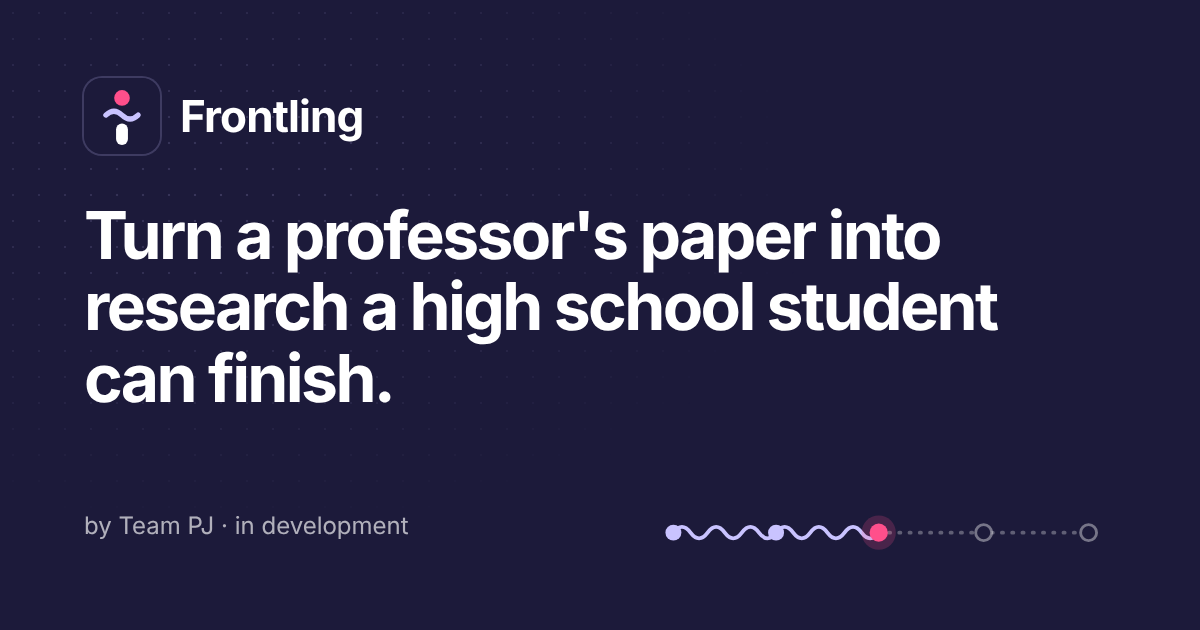
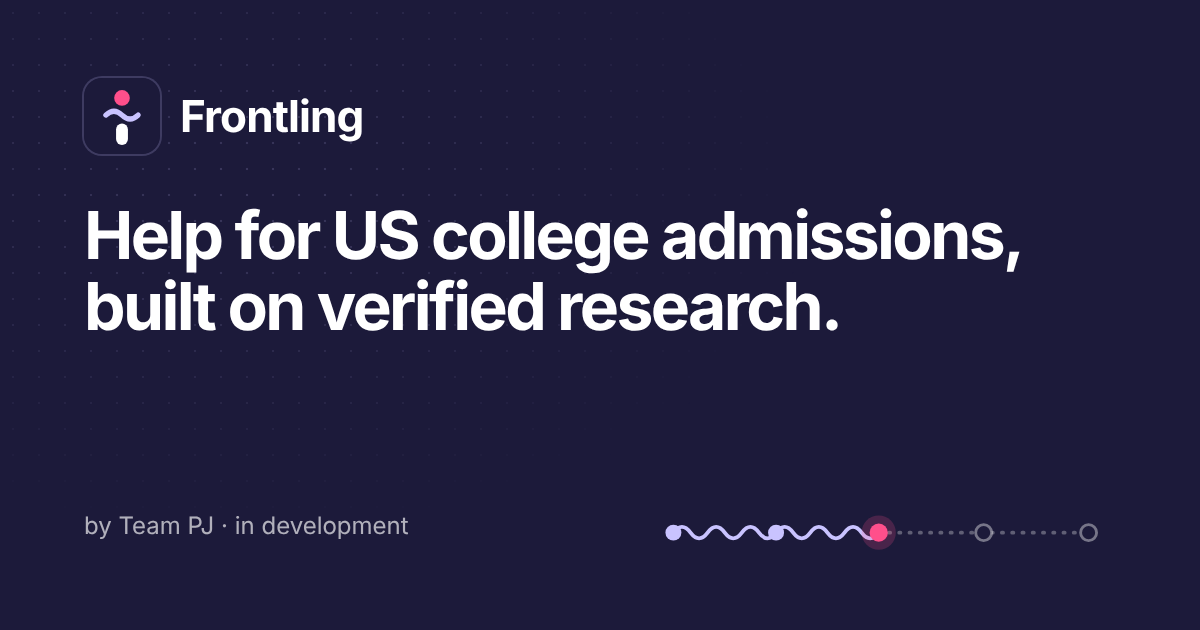
Frontling: position as US college admissions help built on verified research; add Services menu
- Frontling page and home card: student-facing copy for US college admissions,
  professor roles removed; steps are paper, plans, prerequisite check, hint coaching
- Why section: Pioneer Research Institute tuition (official admission page) and
  Bastani et al. PNAS 2025
- Nav: Services dropdown with Interlock and Frontling (hover/focus, click for touch;
  grouped list in the mobile menu)
- Share image text updated; CSS v28 and JS v5 so caches refresh

Claude-Session: https://claude.ai/code/session_01CkiX4FzoXT7LtkamnLJZzg

Changed region(s): [[0.0617, 0.3317, 0.8633, 0.6635]]

diff --git a/frontling/index.html b/frontling/index.html
@@ -2,9 +2,9 @@
 layout: default
 nav: frontling
 title: Frontling
-description: "Frontling turns a professor's recent paper into a research project a high school student can finish, and coaches with hints instead of answers. In development at Team PJ."
+description: "Frontling helps students prepare for US college admissions with research built on published papers: a project they can finish, coached with hints instead of answers. In development at Team PJ."
 og_image: /assets/frontling/og.png
-og_alt: "Frontling by Team PJ — research a high school student can finish."
+og_alt: "Frontling by Team PJ — help for US college admissions, built on verified research."
 ---
     <!-- ============ HERO ============ -->
     <section class="hero fl">
@@ -14,12 +14,12 @@ og_alt: "Frontling by Team PJ — research a high school student can finish."
           <p class="pill reveal"><i class="dot dot--live"></i><span class="en">In development · not available yet</span><span class="ko">개발 중 · 아직 이용할 수 없음</span></p>
           <p class="fl-brand reveal" style="margin-top:28px">{% include frontling-logo.html %}Frontling <small>by Team PJ</small></p>
           <h1 class="hero__title reveal">
-            <span class="en">Turn a professor's paper into research a high school student can finish.</span>
-            <span class="ko">교수의 논문을, 고등학생이 끝낼 수 있는 연구로.</span>
+            <span class="en">Help for US college admissions, built on verified research.</span>
+            <span class="ko">검증된 자료를 바탕으로, 미국 대학 입시를 도와줍니다.</span>
           </h1>
           <p class="hero__lead reveal">
-            <span class="en">Frontling reads a recent paper and drafts two or three research projects sized to the student's grade, weeks and laptop. The professor approves one. Then the student is coached with hints, never with the answer.</span>
-            <span class="ko">Frontling은 최근 논문을 읽고 학생의 학년 · 기간 · 노트북 환경에 맞는 연구 과제를 2~3안으로 설계합니다. 교수가 그중 하나를 승인하면, 학생은 정답이 아닌 힌트로 코칭을 받습니다.</span>
+            <span class="en">Frontling starts from a published research paper and turns it into a project a high school student can actually finish, sized to their grade, weeks and laptop. Coaching comes as hints, never as the answer, so the research in their application is their own.</span>
+            <span class="ko">Frontling은 실제 발표된 연구 논문에서 출발해, 고등학생이 끝까지 해낼 수 있는 연구 과제를 학년 · 기간 · 노트북 환경에 맞춰 설계합니다. 코칭은 정답이 아닌 힌트로만 하기 때문에, 지원서에 담기는 연구는 온전히 학생 자신의 것입니다.</span>
           </p>
           <div class="fl-actions reveal">
             <a class="btn btn--fl" href="#pilot"><span class="en">Join the pilot</span><span class="ko">파일럿 문의</span></a>
@@ -29,39 +29,40 @@ og_alt: "Frontling by Team PJ — research a high school student can finish."
             <a href="#why"><span class="en">Why</span><span class="ko">왜</span></a>
             <a href="#how"><span class="en">How it works</span><span class="ko">작동 방식</span></a>
             <a href="#hints"><span class="en">Hints</span><span class="ko">힌트</span></a>
-            <a href="#who"><span class="en">Who it's for</span><span class="ko">대상</span></a>
+            <a href="#get"><span class="en">What you get</span><span class="ko">얻는 것</span></a>
             <a href="#status"><span class="en">Status</span><span class="ko">현황</span></a>
           </nav>
         </div>
         <figure class="fl-panel reveal" aria-label="Illustration of a Frontling project blueprint">
           <div class="fl-bp__head">
             <span class="fl-panel__k"><span class="en">Project blueprint · 2 of 3</span><span class="ko">과제 설계서 · 2 / 3안</span></span>
-            <span class="fl-tag"><span class="en">Awaiting professor review</span><span class="ko">교수 검토 대기</span></span>
+            <span class="fl-tag"><span class="en">Grade 11 · 10 weeks · laptop</span><span class="ko">11학년 · 10주 · 노트북</span></span>
           </div>
           <dl class="fl-bp__rows">
+            <div><dt><span class="en">Source paper</span><span class="ko">원 논문</span></dt><dd><span class="fl-chip is-on"><span class="en">Published · DOI</span><span class="ko">발표 논문 · DOI</span></span><i style="--w:58%"></i></dd></div>
             <div><dt><span class="en">Research question</span><span class="ko">연구 질문</span></dt><dd><i style="--w:94%"></i><i style="--w:62%"></i></dd></div>
             <div><dt><span class="en">From the paper</span><span class="ko">원 논문과의 관계</span></dt><dd><span class="fl-chip"><span class="en">Reproduce</span><span class="ko">재현</span></span><span class="fl-chip is-on"><span class="en">Scale down</span><span class="ko">축소</span></span><span class="fl-chip"><span class="en">Extend</span><span class="ko">확장</span></span></dd></div>
             <div><dt><span class="en">Data &amp; tools</span><span class="ko">데이터 · 도구</span></dt><dd><i style="--w:78%"></i></dd></div>
-            <div><dt><span class="en">Prerequisites</span><span class="ko">선수 지식</span></dt><dd><i style="--w:28%"></i><i style="--w:22%"></i><i style="--w:34%"></i></dd></div>
           </dl>
           <div class="fl-bp__trail">{% include frontling-trail.html id="hero" %}</div>
-          <div class="fl-bp__review" aria-hidden="true">
-            <span><span class="en">Edit</span><span class="ko">수정</span></span>
-            <span><span class="en">Reject</span><span class="ko">반려</span></span>
-            <span class="is-primary"><span class="en">Approve</span><span class="ko">승인</span></span>
-          </div>
           <figcaption><span class="en">Illustration. Every plan has 3–6 milestones, and the first must fit in two weeks.</span><span class="ko">예시 화면입니다. 모든 설계서는 마일스톤 3~6개로, 첫 마일스톤은 2주 안에 끝나야 합니다.</span></figcaption>
         </figure>
       </div>
     </section>
 
     <!-- ============ WHY ============ -->
-    <section class="section section--soft stat" id="why" aria-label="Why hints">
-      <div class="container stat__inner reveal">
-        <p class="stat__num">17%</p>
-        <div class="stat__text">
+    <section class="section section--soft stat" id="why" aria-label="Why Frontling">
+      <div class="container fl-why">
+        <div class="reveal">
+          <p class="stat__num">$7,465</p>
+          <p class="stat__lead"><span class="en">tuition for one well-known online research program for high school students.</span><span class="ko">고등학생 대상으로 잘 알려진 온라인 연구 프로그램 한 곳의 수업료.</span></p>
+          <p class="stat__text"><span class="en">Real research in high school usually means paying for a mentor. Frontling builds the project from a published paper instead.</span><span class="ko">고등학생이 진짜 연구를 하려면 보통 멘토 비용을 내야 합니다. Frontling은 발표된 논문으로 과제를 만듭니다.</span></p>
+          <p class="stat__src"><span class="en">Source:</span><span class="ko">출처:</span> <a href="https://pioneeracademics.com/admission/" target="_blank" rel="noopener">Pioneer Research Institute, admission page</a><span class="en"> (checked November 2026; need-based scholarships are offered).</span><span class="ko"> (2026년 11월 확인, 필요 기반 장학금 있음).</span></p>
+        </div>
+        <div class="reveal">
+          <p class="stat__num">17%</p>
           <p class="stat__lead"><span class="en">lower exam grades for high school students who had practised with unrestricted GPT-4, compared with students who never had it.</span><span class="ko">제한 없는 GPT-4로 연습한 고등학생이, AI를 쓰지 않은 학생보다 시험에서 받은 낮은 성적.</span></p>
-          <p><span class="en">In the same field experiment, a tutor that gave hints instead of answers largely removed that harm. That is why Frontling coaches, and does not answer.</span><span class="ko">같은 현장 실험에서 답 대신 힌트를 준 튜터는 이 손해를 대부분 없앴습니다. 그래서 Frontling은 답하지 않고 코칭합니다.</span></p>
+          <p class="stat__text"><span class="en">In the same field experiment, a tutor that gave hints instead of answers largely removed that harm. That is why Frontling coaches, and does not answer.</span><span class="ko">같은 현장 실험에서 답 대신 힌트를 준 튜터는 이 손해를 대부분 없앴습니다. 그래서 Frontling은 답하지 않고 코칭합니다.</span></p>
           <p class="stat__src"><span class="en">Source:</span><span class="ko">출처:</span> <a href="https://doi.org/10.1073/pnas.2422633122" target="_blank" rel="noopener">Bastani et al., PNAS 122(26), 2025</a><span class="en">, field experiment with nearly 1,000 high school math students.</span><span class="ko">, 고등학생 약 1,000명 대상 수학 현장 실험.</span></p>
         </div>
       </div>
@@ -73,28 +74,28 @@ og_alt: "Frontling by Team PJ — research a high school student can finish."
         <div class="section__head reveal">
           <p class="eyebrow"><span class="en">How it works</span><span class="ko">작동 방식</span></p>
           <h2 class="section__title"><span class="en">From a paper to a finished project, in four steps.</span><span class="ko">논문에서 완성한 과제까지, 네 단계.</span></h2>
-          <p class="section__lead"><span class="en">The professor stays in the loop at both ends: nothing reaches a student before they approve it, and they see how the student is doing every week.</span><span class="ko">교수는 처음과 끝을 모두 지킵니다. 승인 전에는 어떤 과제도 학생에게 가지 않고, 학생의 진행은 매주 받아 봅니다.</span></p>
+          <p class="section__lead"><span class="en">Plans are checked before a student sees them: 3–6 milestones, and the first one fits in two weeks.</span><span class="ko">설계서는 학생에게 가기 전에 검사합니다. 마일스톤은 3~6개, 첫 마일스톤은 2주 안에 끝나는 범위입니다.</span></p>
         </div>
         <ol class="grid fl-steps">
           <li class="card fl-step reveal">
             <p class="fl-step__k"><span class="en">01 · Paper</span><span class="ko">01 · 논문</span></p>
-            <h3><span class="en">Start from a real paper</span><span class="ko">실제 논문에서 시작</span></h3>
-            <p><span class="en">An arXiv ID, a DOI or a PDF. Links to the paper's code and data are pulled out automatically.</span><span class="ko">arXiv ID, DOI, PDF 중 하나면 됩니다. 논문의 코드 · 데이터 링크는 자동으로 찾아 둡니다.</span></p>
+            <h3><span class="en">Start from published research</span><span class="ko">발표된 연구에서 시작</span></h3>
+            <p><span class="en">An arXiv ID, a DOI or a PDF of a real paper. Links to its code and data are pulled out automatically.</span><span class="ko">실제 논문의 arXiv ID · DOI · PDF로 시작합니다. 논문의 코드 · 데이터 링크는 자동으로 찾아 둡니다.</span></p>
           </li>
           <li class="card fl-step reveal">
             <p class="fl-step__k"><span class="en">02 · Plans</span><span class="ko">02 · 설계</span></p>
             <h3><span class="en">Two or three project plans</span><span class="ko">과제 설계서 2~3안</span></h3>
-            <p><span class="en">Each plan has a question, data, tools and 3–6 milestones, sized to the student's grade, weeks and a laptop.</span><span class="ko">안마다 연구 질문 · 데이터 · 도구 · 마일스톤 3~6개가 있고, 학생의 학년 · 기간 · 노트북에 맞춥니다.</span></p>
+            <p><span class="en">Each plan has a question, data, tools and milestones, sized to the student's grade, weeks and a laptop.</span><span class="ko">안마다 연구 질문 · 데이터 · 도구 · 마일스톤이 있고, 학생의 학년 · 기간 · 노트북에 맞춥니다.</span></p>
           </li>
           <li class="card fl-step reveal">
-            <p class="fl-step__k"><span class="en">03 · Review</span><span class="ko">03 · 검토</span></p>
-            <h3><span class="en">The professor decides</span><span class="ko">교수가 결정</span></h3>
-            <p><span class="en">The paper's author edits, approves or rejects each plan, with a reason for every rejection.</span><span class="ko">논문 저자가 설계서를 수정 · 승인 · 반려합니다. 반려에는 반드시 사유를 남깁니다.</span></p>
+            <p class="fl-step__k"><span class="en">03 · Check</span><span class="ko">03 · 진단</span></p>
+            <h3><span class="en">What to study first</span><span class="ko">먼저 공부할 것</span></h3>
+            <p><span class="en">A short quiz on the concepts the plan needs, with study notes for every concept the student missed.</span><span class="ko">설계서에 필요한 개념을 짧은 퀴즈로 확인하고, 틀린 개념마다 학습 자료를 줍니다.</span></p>
           </li>
           <li class="card fl-step reveal">
             <p class="fl-step__k"><span class="en">04 · Coaching</span><span class="ko">04 · 코칭</span></p>
             <h3><span class="en">Hints, milestone by milestone</span><span class="ko">마일스톤마다 힌트</span></h3>
-            <p><span class="en">The student works through the milestones with hints, and the professor gets a weekly progress summary by email.</span><span class="ko">학생은 힌트를 받으며 마일스톤을 하나씩 끝내고, 교수는 매주 진행 요약을 메일로 받습니다.</span></p>
+            <p><span class="en">The student works through each milestone, gets hints when stuck and submits the result. Every attempt is logged.</span><span class="ko">학생은 마일스톤을 하나씩 진행하며 막히면 힌트를 받고 결과를 제출합니다. 모든 시도가 기록됩니다.</span></p>
           </li>
         </ol>
       </div>
@@ -107,7 +108,7 @@ og_alt: "Frontling by Team PJ — research a high school student can finish."
           <p class="eyebrow"><span class="en">Hint ladder</span><span class="ko">힌트 사다리</span></p>
           <h2 class="section__title"><span class="en">Hints, never the answer.</span><span class="ko">답 대신 힌트.</span></h2>
           <p class="section__lead"><span class="en">The hint rule is part of Frontling, not a setting, so a student cannot switch it off. Every hint needs a written attempt first, and a model reply that reads like a full solution is held back before the student sees it.</span><span class="ko">힌트 규칙은 설정이 아니라 Frontling 자체라서 학생이 끌 수 없습니다. 힌트마다 먼저 시도를 적어야 하고, 풀이 전체처럼 보이는 모델 답변은 학생에게 가기 전에 걸러집니다.</span></p>
-          <p class="section__lead"><span class="en">Every attempt and every hint goes into the progress log the professor sees.</span><span class="ko">모든 시도와 힌트는 교수가 보는 진행 기록에 남습니다.</span></p>
+          <p class="section__lead"><span class="en">Every attempt and every hint goes into the student's progress log, a record of the work they did themselves.</span><span class="ko">모든 시도와 힌트는 학생의 진행 기록에 남아, 학생이 직접 해낸 과정의 기록이 됩니다.</span></p>
         </div>
         <ol class="fl-ladder reveal" aria-label="Hint ladder">
           <li class="is-first"><span class="fl-ladder__n" aria-hidden="true">✎</span><b><span class="en">Your attempt</span><span class="ko">내 시도</span></b><span><span class="en">Written first. No attempt, no hint.</span><span class="ko">먼저 적어야 힌트가 열립니다.</span></span></li>
@@ -119,44 +120,45 @@ og_alt: "Frontling by Team PJ — research a high school student can finish."
       </div>
     </section>
 
-    <!-- ============ WHO ============ -->
-    <section class="section" id="who">
+    <!-- ============ WHAT YOU GET ============ -->
+    <section class="section" id="get">
       <div class="container">
         <div class="section__head reveal">
-          <p class="eyebrow"><span class="en">Who it's for</span><span class="ko">대상</span></p>
-          <h2 class="section__title"><span class="en">Built for the three people a student project needs.</span><span class="ko">학생 연구에 필요한 세 사람을 위해.</span></h2>
+          <p class="eyebrow"><span class="en">For students</span><span class="ko">학생에게</span></p>
+          <h2 class="section__title"><span class="en">Research that is yours, start to finish.</span><span class="ko">처음부터 끝까지, 학생 자신의 연구.</span></h2>
+          <p class="section__lead"><span class="en">For high school students preparing to apply to US colleges.</span><span class="ko">미국 대학 진학을 준비하는 고등학생을 위해 만들고 있습니다.</span></p>
         </div>
         <div class="grid grid--3 fl-who">
           <article class="card reveal">
-            <p class="fl-who__k"><span class="en">Students</span><span class="ko">학생</span></p>
-            <h3><span class="en">High school students</span><span class="ko">고등학생</span></h3>
+            <p class="fl-who__k"><span class="en">Project</span><span class="ko">과제</span></p>
+            <h3><span class="en">A real research project</span><span class="ko">진짜 연구 과제</span></h3>
             <ul>
-              <li><span class="en">A project built from a real, recent paper</span><span class="ko">실제 최근 논문에서 나온 과제</span></li>
-              <li><span class="en">Milestones that fit your weeks, the first within two</span><span class="ko">내 기간에 맞춘 마일스톤, 첫 단계는 2주 안</span></li>
-              <li><span class="en">A quick check of what to study first, with study notes</span><span class="ko">먼저 공부할 개념 진단과 학습 자료</span></li>
+              <li><span class="en">Built from a published paper, not a made-up topic</span><span class="ko">지어낸 주제가 아닌, 발표된 논문에서 출발</span></li>
+              <li><span class="en">Reproduce, scale down or extend the original study</span><span class="ko">원 연구를 재현 · 축소 · 확장</span></li>
+              <li><span class="en">Runs on a laptop: data analysis, simulation, computation</span><span class="ko">노트북으로 가능한 데이터 분석 · 시뮬레이션 · 계산</span></li>
             </ul>
           </article>
           <article class="card reveal">
-            <p class="fl-who__k"><span class="en">Researchers</span><span class="ko">연구자</span></p>
-            <h3><span class="en">Professors &amp; grad students</span><span class="ko">교수 · 대학원생</span></h3>
+            <p class="fl-who__k"><span class="en">Plan</span><span class="ko">계획</span></p>
+            <h3><span class="en">A plan that fits school</span><span class="ko">학교와 병행할 수 있는 계획</span></h3>
             <ul>
-              <li><span class="en">Project plans drafted from your own paper</span><span class="ko">본인 논문으로 만든 과제 설계서 초안</span></li>
-              <li><span class="en">You edit, approve or reject before any student sees it</span><span class="ko">학생에게 가기 전에 직접 수정 · 승인 · 반려</span></li>
-              <li><span class="en">A weekly progress summary in your inbox</span><span class="ko">매주 메일로 받는 진행 요약</span></li>
+              <li><span class="en">Sized to your grade and the weeks you have</span><span class="ko">내 학년과 쓸 수 있는 기간에 맞춤</span></li>
+              <li><span class="en">3–6 milestones, the first within two weeks</span><span class="ko">마일스톤 3~6개, 첫 단계는 2주 안</span></li>
+              <li><span class="en">A check of what to study first, with study notes</span><span class="ko">먼저 공부할 개념 진단과 학습 자료</span></li>
             </ul>
           </article>
           <article class="card reveal">
-            <p class="fl-who__k"><span class="en">Schools</span><span class="ko">학교</span></p>
-            <h3><span class="en">Teachers &amp; science clubs</span><span class="ko">교사 · 과학 동아리</span></h3>
+            <p class="fl-who__k"><span class="en">Coaching</span><span class="ko">코칭</span></p>
+            <h3><span class="en">Coaching that keeps it yours</span><span class="ko">내 연구로 남는 코칭</span></h3>
             <ul>
-              <li><span class="en">Approved projects to assign to a whole class</span><span class="ko">승인된 과제를 반 전체에 배정</span></li>
-              <li><span class="en">Each student's milestone and latest attempt in one view</span><span class="ko">학생별 마일스톤과 최근 시도를 한 화면에</span></li>
+              <li><span class="en">Hints when you are stuck, never the answer</span><span class="ko">막힐 때 힌트, 정답은 주지 않음</span></li>
+              <li><span class="en">A log of every attempt and hint</span><span class="ko">모든 시도와 힌트 기록</span></li>
               <li><span class="en">Korean and English</span><span class="ko">한국어 · 영어 지원</span></li>
             </ul>
           </article>
         </div>
         <ul class="points reveal">
-          <li><b><span class="en">No ghostwriting</span><span class="ko">대필 없음</span></b><span class="en">Frontling will not write the paper or the report for the student.</span><span class="ko">Frontling은 학생 대신 논문이나 보고서를 쓰지 않습니다.</span></li>
+          <li><b><span class="en">No ghostwriting</span><span class="ko">대필 없음</span></b><span class="en">Frontling will not write the paper, the report or the essay for the student.</span><span class="ko">Frontling은 학생 대신 논문 · 보고서 · 에세이를 쓰지 않습니다.</span></li>
           <li><b><span class="en">Computer-based research</span><span class="ko">컴퓨터 기반 연구</span></b><span class="en">Version 1 covers data analysis, simulation and computation. No wet lab.</span><span class="ko">1차 버전은 데이터 분석 · 시뮬레이션 · 계산 과제만 다룹니다. 웻랩 실험은 없습니다.</span></li>
           <li><b><span class="en">Consent first</span><span class="ko">동의가 먼저</span></b><span class="en">Nothing starts until the student's and a guardian's consent is on record.</span><span class="ko">학생 본인과 보호자의 동의가 기록되기 전에는 시작하지 않습니다.</span></li>
         </ul>
@@ -184,9 +186,9 @@ og_alt: "Frontling by Team PJ — research a high school student can finish."
               <ul>
                 <li><span class="en">Paper input from arXiv, DOI or PDF, with code and data links found in the paper</span><span class="ko">arXiv · DOI · PDF 논문 입력, 논문 속 코드 · 데이터 링크 추출</span></li>
                 <li><span class="en">Two or three plans per paper, checked for 3–6 milestones with the first within two weeks</span><span class="ko">논문당 설계서 2~3안, 마일스톤 3~6개 · 첫 단계 2주 이내 검사</span></li>
-                <li><span class="en">Professor review, milestone submissions and a weekly summary email</span><span class="ko">교수 검토, 마일스톤 제출 · 확인, 주간 요약 메일</span></li>
+                <li><span class="en">Milestone submissions and a log of every attempt and hint</span><span class="ko">마일스톤 제출, 모든 시도 · 힌트 기록</span></li>
                 <li><span class="en">Hint coaching with attempt-first rules, daily limits and answer-leak screening</span><span class="ko">시도 우선 규칙 · 하루 상한 · 정답 유출 차단을 갖춘 힌트 코칭</span></li>
-                <li><span class="en">Prerequisite check with study notes, a reproducibility score for papers, and a teacher's class view</span><span class="ko">선수 지식 진단 · 학습 자료, 논문 재현 가능성 점수, 교사용 반 현황</span></li>
+                <li><span class="en">Prerequisite check with study notes, and a reproducibility score for papers</span><span class="ko">선수 지식 진단 · 학습 자료, 논문 재현 가능성 점수</span></li>
               </ul>
             </div>
             <div class="status__col">
@@ -195,7 +197,7 @@ og_alt: "Frontling by Team PJ — research a high school student can finish."
                 <li><span class="en">Answer-leak tests against the live model, which must pass before any deploy</span><span class="ko">실제 모델 대상 정답 유출 평가 — 통과해야 배포</span></li>
                 <li><span class="en">Hosting, a domain and email delivery</span><span class="ko">호스팅 · 도메인 · 메일 발송 환경</span></li>
                 <li><span class="en">Legal review of the privacy notice and consent forms</span><span class="ko">개인정보 고지문 · 동의서 법률 검토</span></li>
-                <li><span class="en">A first free pilot with students and professors in Korea, planned for November–December 2026</span><span class="ko">한국 학생 · 교수와 첫 무료 파일럿 (2026년 11~12월 예정)</span></li>
+                <li><span class="en">A first free pilot with high school students, planned for November–December 2026</span><span class="ko">고등학생과 함께하는 첫 무료 파일럿 (2026년 11~12월 예정)</span></li>
               </ul>
             </div>
           </div>
@@ -208,7 +210,7 @@ og_alt: "Frontling by Team PJ — research a high school student can finish."
       <div class="container cta__inner reveal">
         <div>
           <h2 class="section__title"><span class="en">Want to be part of the first pilot?</span><span class="ko">첫 파일럿에 함께하실래요?</span></h2>
-          <p class="cta__lead"><span class="en">We are looking for professors and graduate students with a recent paper, teachers who need research projects, and high school students who want to try real research.</span><span class="ko">최근 논문이 있는 교수 · 대학원생, 탐구 과제가 필요한 교사, 진짜 연구를 해 보고 싶은 고등학생을 찾고 있습니다.</span></p>
+          <p class="cta__lead"><span class="en">We are looking for high school students preparing to apply to US colleges, and their parents.</span><span class="ko">미국 대학 진학을 준비하는 고등학생과 학부모를 찾고 있습니다.</span></p>
         </div>
         <div>
           <a class="btn btn--fl" href="mailto:pj.southkorea@gmail.com?subject=%5BFrontling%5D%20Pilot"><span class="en">Email us about the pilot</span><span class="ko">파일럿 문의 메일 보내기</span></a>

diff --git a/assets/css/style.css b/assets/css/style.css
@@ -139,6 +139,19 @@ section[id], main[id] { scroll-margin-top: calc(var(--nav-h) + 8px); }
 .nav__links a { transition: color .15s; }
 .nav__links a:hover, .nav__links a[aria-current="page"] { color: var(--ink); }
 .nav__links a[aria-current="page"] { font-weight: 600; }
+.nav__menu { position: relative; display: flex; align-items: center; }
+.nav__menu-btn { display: inline-flex; align-items: center; gap: 7px; font-size: 15px; color: var(--muted); transition: color .15s; }
+.nav__menu-btn::after { content: ""; width: 6px; height: 6px; border-right: 1.5px solid currentColor; border-bottom: 1.5px solid currentColor; transform: translateY(-2px) rotate(45deg); transition: transform .2s; }
+.nav__menu:hover .nav__menu-btn, .nav__menu.is-open .nav__menu-btn { color: var(--ink); }
+.nav__menu.is-open .nav__menu-btn::after { transform: translateY(1px) rotate(-135deg); }
+.nav__menu-btn[data-current] { color: var(--ink); font-weight: 600; }
+.nav__drop { position: absolute; top: calc(100% + 16px); left: -14px; width: 300px; padding: 6px; display: grid; gap: 2px; border: 1px solid var(--line); border-radius: 12px; background: #fff; box-shadow: 0 18px 40px -18px rgba(22, 19, 15, .28); opacity: 0; visibility: hidden; transform: translateY(-4px); transition: opacity .15s, transform .15s, visibility .15s; }
+.nav__drop::before { content: ""; position: absolute; left: 0; right: 0; top: -18px; height: 18px; }
+.nav__menu:hover .nav__drop, .nav__menu:focus-within .nav__drop, .nav__menu.is-open .nav__drop { opacity: 1; visibility: visible; transform: none; }
+.nav__drop a { display: grid; gap: 2px; padding: 10px 12px; border-radius: 8px; }
+.nav__drop a:hover, .nav__drop a[aria-current="page"] { background: var(--bg-soft); }
+.nav__drop b { font-size: 15px; font-weight: 600; color: var(--ink); }
+.nav__drop small { font-size: 13px; line-height: 1.4; color: var(--muted); }
 .nav__right { margin-left: auto; display: flex; align-items: center; gap: 14px; }
 .lang { display: flex; padding: 2px; border: 1px solid var(--line); border-radius: 8px; }
 .lang button { padding: 4px 9px; border-radius: 6px; font-size: 12px; font-weight: 600; letter-spacing: .02em; color: var(--muted); transition: color .15s, background-color .15s; }
@@ -557,6 +570,12 @@ html:not(.is-admin) .admin-only, html.is-admin .admin-off { display: none !impor
   }
   .nav__links a { padding: 12px 0; border-bottom: 1px solid var(--line); }
   .nav__links a:last-child { border-bottom: 0; }
+  .nav__menu { display: block; padding: 14px 0 2px; border-bottom: 1px solid var(--line); }
+  .nav__menu-btn { font-size: 13px; font-weight: 600; letter-spacing: .04em; text-transform: uppercase; pointer-events: none; }
+  .nav__menu-btn::after, .nav__drop::before { display: none; }
+  .nav__drop { position: static; width: auto; padding: 4px 0 6px; border: 0; border-radius: 0; background: none; box-shadow: none; opacity: 1; visibility: visible; transform: none; }
+  .nav__links .nav__drop a { padding: 10px 0; border-bottom: 0; }
+  .nav__drop a:hover, .nav__drop a[aria-current="page"] { background: none; }
   .nav.is-open .nav__links { display: flex; }
   .nav.is-open { border-bottom-color: var(--line); background: #fff; }
   .nav__burger { display: block; }
@@ -682,9 +701,12 @@ html[data-lang="ko"] .fl .hero__title { font-size: clamp(32px, 3.8vw, 48px); }
 .fl-chip { padding: 3px 10px; border-radius: 7px; border: 1px solid var(--fl-line); font-size: 12.5px; color: rgba(255, 255, 255, .62); }
 .fl-chip.is-on { border-color: var(--fl-lav); background: rgba(201, 195, 255, .14); color: #fff; }
 .fl-bp__trail { margin-top: 4px; padding-top: 14px; border-top: 1px solid var(--fl-line); }
-.fl-bp__review { margin-top: 18px; display: flex; flex-wrap: wrap; justify-content: flex-end; gap: 8px; }
-.fl-bp__review > span { padding: 7px 13px; border-radius: 8px; border: 1px solid rgba(255, 255, 255, .22); font-size: 13px; font-weight: 600; color: rgba(255, 255, 255, .8); }
-.fl-bp__review > .is-primary { border-color: #fff; background: #fff; color: #1c1a3a; }
+
+.fl-why { display: grid; grid-template-columns: repeat(2, minmax(0, 1fr)); gap: 40px clamp(32px, 6vw, 80px); }
+.fl-why .stat__num { font-size: clamp(56px, 6.4vw, 88px); }
+.fl-why .stat__lead { margin-top: 18px; }
+.fl-why .stat__text { display: block; font-size: 16px; line-height: 1.6; }
+@media (max-width: 720px) { .fl-why { grid-template-columns: 1fr; } }
 
 /* Steps, ladder, audiences (light sections) */
 .fl-steps { grid-template-columns: repeat(4, minmax(0, 1fr)); }

diff --git a/index.html b/index.html
@@ -2,7 +2,7 @@
 layout: default
 home: true
 title: Team PJ
-description: "Team PJ is a software company from South Korea. We design, build and run software products, including Interlock for teams running AI coding agents and Frontling for student research. Team PJ는 소프트웨어를 중심으로 다양한 사업을 설계하고 운영하는 한국의 소프트웨어 회사입니다."
+description: "Team PJ is a software company from South Korea. We design, build and run software products, including Interlock for teams running AI coding agents and Frontling for US college admissions. Team PJ는 소프트웨어를 중심으로 다양한 사업을 설계하고 운영하는 한국의 소프트웨어 회사입니다."
 ---
     <section class="hero">
       <div class="hero__grid" aria-hidden="true"></div>
@@ -11,8 +11,8 @@ description: "Team PJ is a software company from South Korea. We design, build a
           <p class="pill reveal"><span class="en">Founded in South Korea</span><span class="ko">대한민국에서 창업</span></p>
           <h1 class="hero__title reveal">Team PJ</h1>
           <p class="hero__lead reveal">
-            <span class="en">We design, build and run software products, from tools for developers working with AI agents to tools for students learning to do real research.</span>
-            <span class="ko">소프트웨어를 중심으로 다양한 사업을 설계하고 운영합니다. AI 에이전트와 일하는 개발자를 위한 도구부터, 진짜 연구를 배우는 학생을 위한 도구까지 만듭니다.</span>
+            <span class="en">We design, build and run software products, from tools for developers working with AI agents to tools that help students prepare for US college admissions.</span>
+            <span class="ko">소프트웨어를 중심으로 다양한 사업을 설계하고 운영합니다. AI 에이전트와 일하는 개발자를 위한 도구부터, 미국 대학 입시를 준비하는 학생을 위한 도구까지 만듭니다.</span>
           </p>
           <nav class="subnav reveal" aria-label="Products">
             <a href="#products"><span class="en">Our products</span><span class="ko">제품</span></a>
@@ -67,11 +67,11 @@ description: "Team PJ is a software company from South Korea. We design, build a
           </article>
           <article class="prod reveal">
             <div class="prod__top">
-              <p class="prod__field"><span class="en">Education</span><span class="ko">교육</span></p>
+              <p class="prod__field"><span class="en">US college admissions</span><span class="ko">미국 대학 입시</span></p>
               <span class="badge"><span class="en">In development</span><span class="ko">개발 중</span></span>
             </div>
             <h3 class="prod__name">{% include frontling-logo.html %}Frontling</h3>
-            <p class="prod__desc"><span class="en">Turns a professor's recent paper into two or three research projects a high school student can finish. The professor approves one, and the student is coached with hints, never with the answer.</span><span class="ko">교수의 최근 논문을 고등학생이 끝낼 수 있는 연구 과제 2~3안으로 바꿉니다. 교수가 하나를 승인하면, 학생은 정답이 아닌 힌트로 코칭을 받습니다.</span></p>
+            <p class="prod__desc"><span class="en">Help for US college admissions, built on verified research. Frontling turns a published paper into a research project a high school student can finish, and coaches with hints, never with the answer.</span><span class="ko">검증된 자료를 바탕으로 미국 대학 입시를 도와줍니다. 발표된 연구 논문으로 고등학생이 끝낼 수 있는 연구 과제를 만들고, 정답 대신 힌트로 코칭합니다.</span></p>
             <figure class="fl fl-panel prod__vis" aria-label="Illustration of the Frontling milestone trail">
               {% include frontling-trail.html id="home" %}
               <ol class="fl-rungs" aria-label="Hint ladder">

diff --git a/_layouts/default.html b/_layouts/default.html
@@ -45,7 +45,7 @@
   <link rel="preconnect" href="https://cdn.jsdelivr.net" crossorigin>
   <link rel="stylesheet" href="https://fonts.googleapis.com/css2?family=Inter:wght@400;500;600;700&display=swap">
   <link rel="stylesheet" href="https://cdn.jsdelivr.net/gh/orioncactus/pretendard@v1.3.9/dist/web/variable/pretendardvariable-dynamic-subset.min.css">
-  <link rel="stylesheet" href="/assets/css/style.css?v=27">
+  <link rel="stylesheet" href="/assets/css/style.css?v=28">
 
   <script>
     (function () {
@@ -73,8 +73,13 @@
         <span class="brand__name">Team PJ</span>
       </a>
       <nav class="nav__links" id="navLinks" aria-label="Main">
-        <a href="/apps/"{% if page.nav == 'apps' %} aria-current="page"{% endif %}>Interlock</a>
-        <a href="/frontling/"{% if page.nav == 'frontling' %} aria-current="page"{% endif %}>Frontling</a>
+        <div class="nav__menu">
+          <button type="button" class="nav__menu-btn" aria-expanded="false" aria-controls="navServices"{% if page.nav == 'apps' or page.nav == 'frontling' %} data-current{% endif %}><span class="en">Services</span><span class="ko">서비스</span></button>
+          <div class="nav__drop" id="navServices">
+            <a href="/apps/"{% if page.nav == 'apps' %} aria-current="page"{% endif %}><b>Interlock</b><small><span class="en">For teams running AI coding agents</span><span class="ko">AI 코딩 에이전트를 함께 쓰는 팀을 위해</span></small></a>
+            <a href="/frontling/"{% if page.nav == 'frontling' %} aria-current="page"{% endif %}><b>Frontling</b><small><span class="en">Help for US college admissions</span><span class="ko">미국 대학 입시를 돕는 서비스</span></small></a>
+          </div>
+        </div>
         {%- unless page.home or page.nav == 'frontling' %}<a href="/interlock/experiments/"{% if page.nav == 'results' %} aria-current="page"{% endif %}><span class="en">Results</span><span class="ko">실험 결과</span></a>{% endunless %}
         <a href="/board/"{% if page.nav == 'board' %} aria-current="page"{% endif %}><span class="en">Board</span><span class="ko">게시판</span></a>
         <a href="/#team"><span class="en">Team</span><span class="ko">팀</span></a>
@@ -125,7 +130,7 @@
 
   <div class="toast" id="toast" role="status" aria-live="polite"></div>
 
-  <script src="/assets/js/main.js?v=4" defer></script>
+  <script src="/assets/js/main.js?v=5" defer></script>
   {%- if page.admin %}
   <script src="/assets/js/admin.js?v=4" defer></script>
   {%- endif %}

diff --git a/assets/js/main.js b/assets/js/main.js
@@ -54,6 +54,15 @@
   $$('#navLinks a').forEach((a) => a.addEventListener('click', () => setMenu(false)));
   addEventListener('keydown', (e) => { if (e.key === 'Escape') setMenu(false); });
 
+  /* Services dropdown: hover/focus opens it in CSS; click toggles it for touch */
+  $$('.nav__menu').forEach((m) => {
+    const b = m.querySelector('.nav__menu-btn');
+    const set = (o) => { m.classList.toggle('is-open', o); b.setAttribute('aria-expanded', String(o)); };
+    b.addEventListener('click', () => set(!m.classList.contains('is-open')));
+    document.addEventListener('click', (e) => { if (!m.contains(e.target)) set(false); });
+    addEventListener('keydown', (e) => { if (e.key === 'Escape') set(false); });
+  });
+
   /* ---------- Reveal on scroll ---------- */
   const reveals = $$('.reveal');
   if ('IntersectionObserver' in window) {

diff --git a/_includes/jsonld.html b/_includes/jsonld.html
@@ -10,7 +10,7 @@
         "url": "https://team-pj-lab.github.io/",
         "logo": "https://team-pj-lab.github.io/assets/brand/pj-logo.png",
         "image": "https://team-pj-lab.github.io/assets/og-image.png",
-        "description": "Team PJ is a software company from South Korea that designs, builds and runs software products, including Interlock (for teams running AI coding agents) and Frontling (student research).",
+        "description": "Team PJ is a software company from South Korea that designs, builds and runs software products, including Interlock (for teams running AI coding agents) and Frontling (US college admissions).",
         "foundingDate": "2026",
         "address": { "@type": "PostalAddress", "addressCountry": "KR" },
         "email": "pj.southkorea@gmail.com",

diff --git a/README.md b/README.md
@@ -14,7 +14,7 @@ GitHub Pages가 Jekyll로 빌드합니다. 공통 틀은 `_layouts/default.html`
 | | |
 |---|---|
 | `index.html` | 홈 (회사 소개 · 창업자 · 연락처) |
-| `frontling/index.html` | Frontling 소개 (개발 중 · 작동 방식 · 힌트 사다리 · 대상 · 현황 · 파일럿 문의). 아이콘은 `_includes/frontling-logo.html`, 마일스톤 그림은 `_includes/frontling-trail.html` |
+| `frontling/index.html` | Frontling 소개 (개발 중 · 왜 · 작동 방식 · 힌트 사다리 · 학생이 얻는 것 · 현황 · 파일럿 문의). 아이콘은 `_includes/frontling-logo.html`, 마일스톤 그림은 `_includes/frontling-trail.html` |
 | `apps/index.html` | Interlock 섹션 (소개 · 작동 방식 · 실험 · 현황 · 업데이트 기록 · 베타 신청) |
 | `board/index.html` | 게시판 목록 |
 | `_posts/` | 게시글 (마크다운) |
